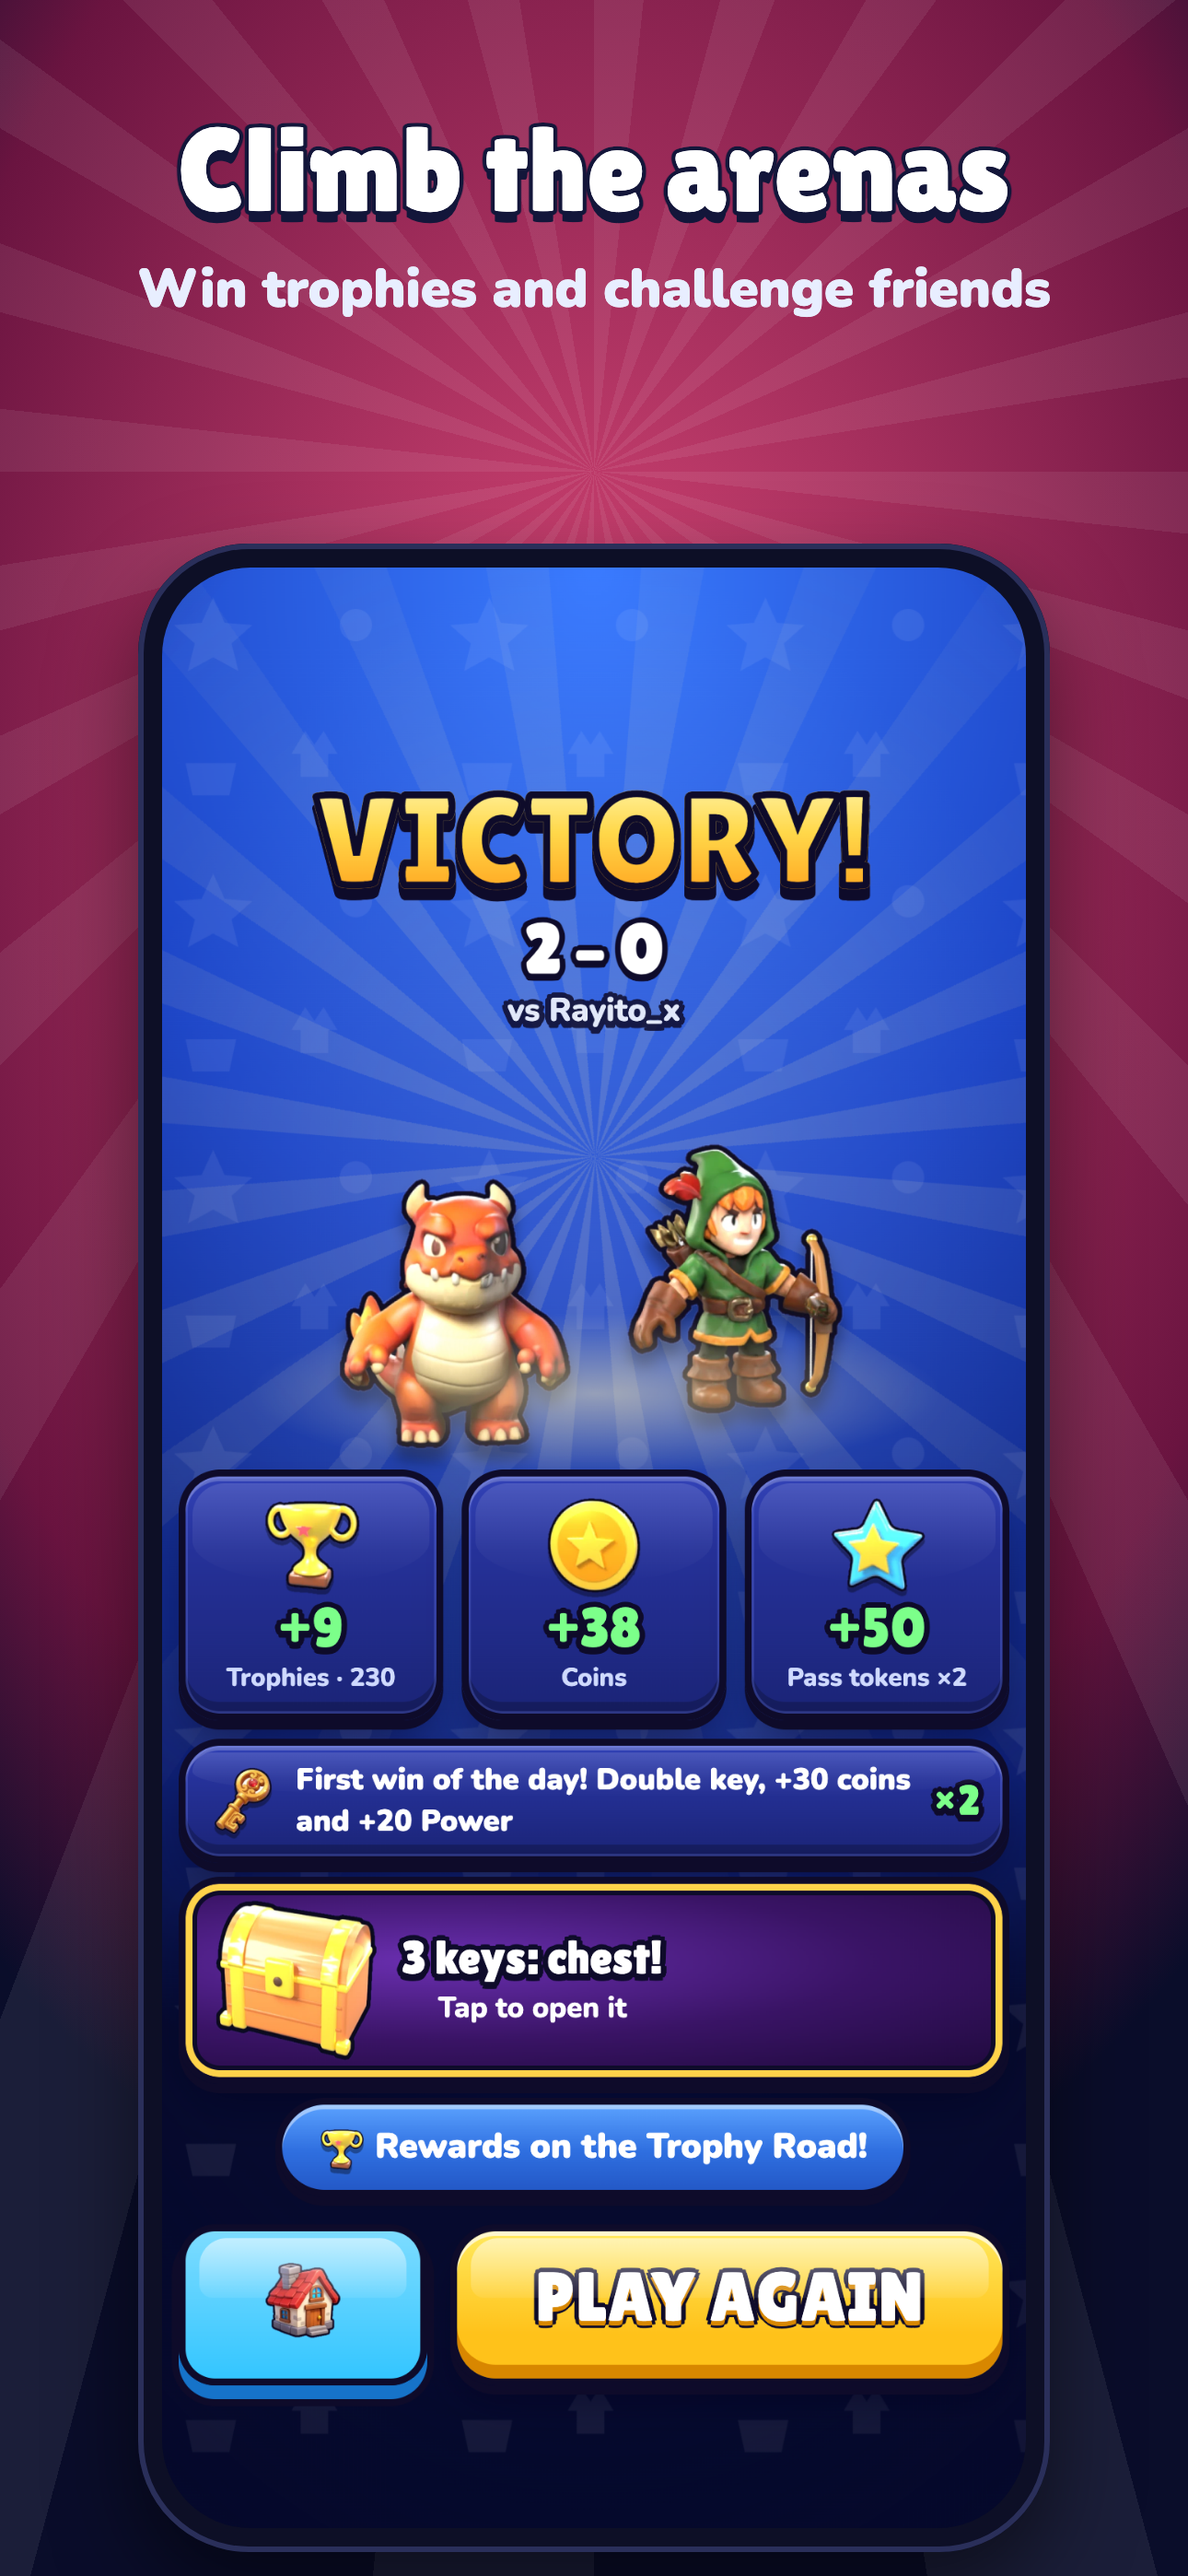
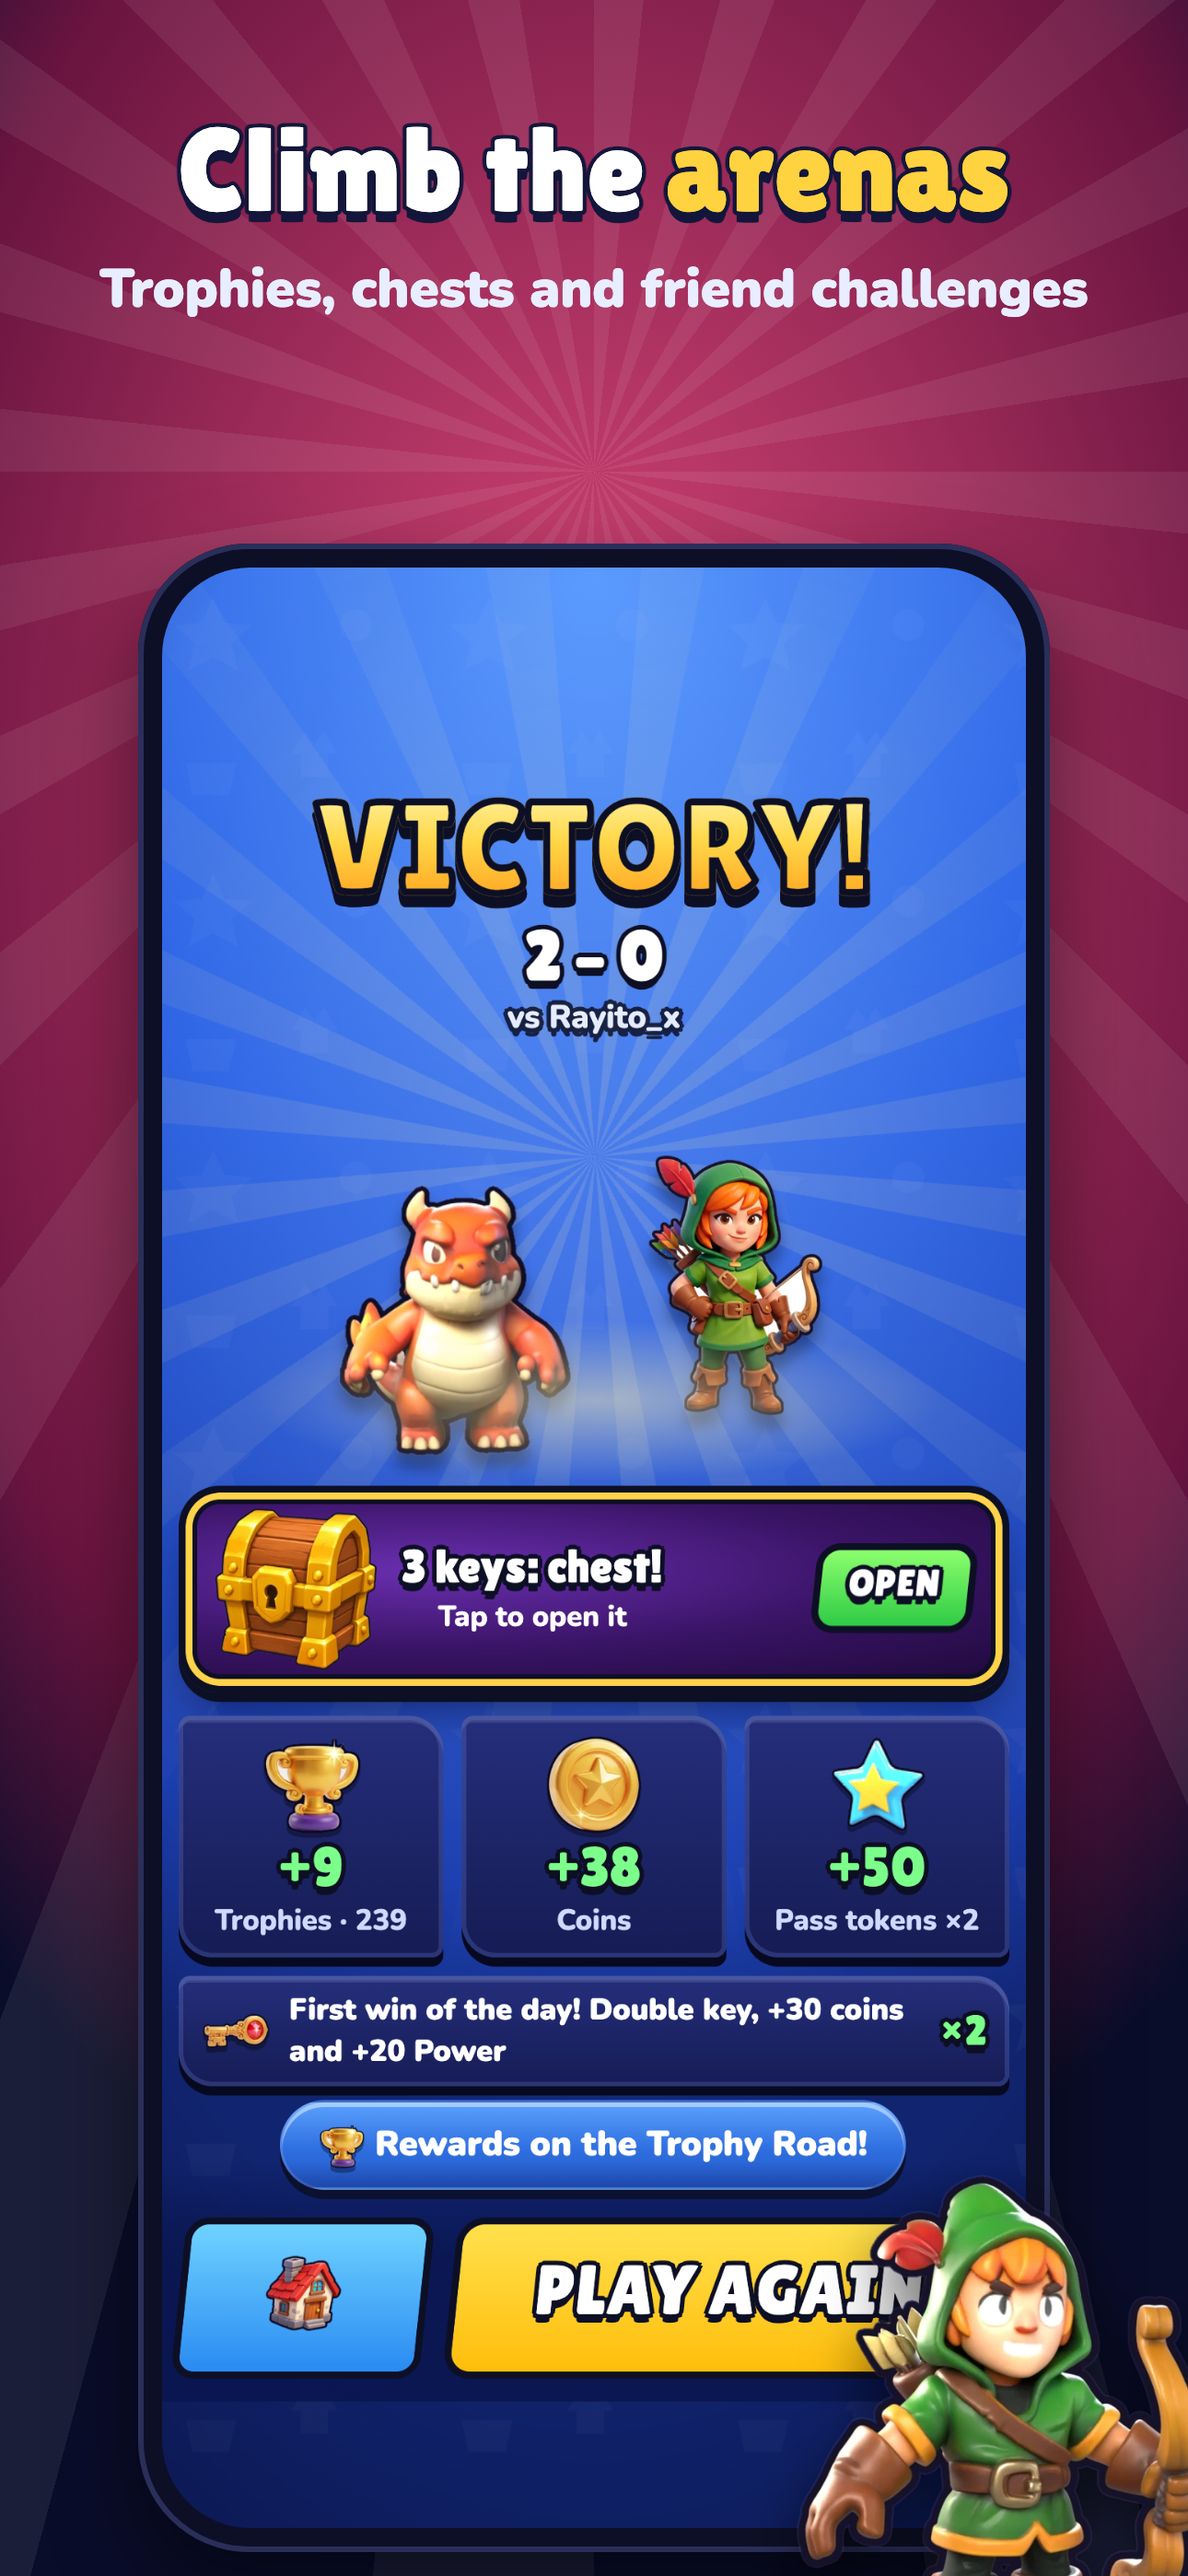
AMAGO: animación 3D sin estirones (colas, capas y alas detrás del cuerpo se mueven con el tronco, no con los brazos), al atacar el héroe se gira en tres cuartos en vez de dar la espalda; recompensas a prueba de NaN; capturas de la App Store nuevas (ES/EN) con modelos 3D, K.O., Mi isla, jefes y héroe

diff --git a/amago/index.html b/amago/index.html
@@ -3378,7 +3378,7 @@ function spriteHero(id,skin){
   return root;
 }
 /* huesos y pesos: cada vértice de la malla sigue a los huesos cercanos (mezcla suave en las articulaciones) */
-function skin2D(geo,R,w,h){
+function skin2D(geo,R,w,h,h3d){
   const P=q=>[(q[0]-.5)*w,(1-q[1])*h];
   const hp=P(R.h),nk=P(R.n),hc=P(R.c),top=[hc[0]*2-nk[0],hc[1]*2-nk[1]];
   const bones=[
@@ -3386,13 +3386,22 @@ function skin2D(geo,R,w,h){
     {n:"spine",par:0,a:hp,b:nk},{n:"head",par:1,a:nk,b:top},
     {n:"armL",par:1,a:P(R.sL),b:P(R.hL)},{n:"armR",par:1,a:P(R.sR),b:P(R.hR)},
     {n:"legL",par:0,a:P(R.pL),b:P(R.fL)},{n:"legR",par:0,a:P(R.pR),b:P(R.fR)}];
-  for(const [n,par,f,t] of R.x||[])bones.push({n,par:bones.findIndex(b=>b.n===par),a:P(f),b:P(t),extra:1});
+  /* en los modelos 3D, colas, capas y alas de la ilustración quedan DETRÁS del cuerpo: su hueso 2D caería encima de un brazo y lo estiraría */
+  const BACK=["cola","capa","alaL","abdomen"];
+  for(const [n,par,f,t] of R.x||[]){if(h3d&&BACK.includes(n))continue;bones.push({n,par:bones.findIndex(b=>b.n===par),a:P(f),b:P(t),extra:1});}
   const pos=geo.attributes.position,N=pos.count,rest=new Float32Array(pos.array),nb=bones.length,W=new Float32Array(N*nb),e2=(h*.035)**2;
+  /* profundidad: lo que está muy por detrás de la cara visible en ese punto (cola, espalda) va con el cuerpo (raíz y tronco), no con brazos ni piernas */
+  let back=null;
+  if(h3d){const cs=h*.045,F=new Map(),key=(x,y)=>Math.floor(x/cs)+","+Math.floor(y/cs);
+    for(let i=0;i<N;i++){const k=key(rest[i*3],rest[i*3+1]),z=rest[i*3+2];if(!(F.get(k)>=z))F.set(k,z);}
+    back=new Float32Array(N);const d0=h*.16,d1=h*.32;
+    for(let i=0;i<N;i++){const d=F.get(key(rest[i*3],rest[i*3+1]))-rest[i*3+2];back[i]=Math.max(0,Math.min(1,(d-d0)/(d1-d0)));}}
   for(let i=0;i<N;i++){
-    const x=rest[i*3],y=rest[i*3+1];let sum=0;
+    const x=rest[i*3],y=rest[i*3+1];let sum=0;const bk=back?back[i]:0;
     for(let j=0;j<nb;j++){const {a,b}=bones[j],dx=b[0]-a[0],dy=b[1]-a[1],L=dx*dx+dy*dy||1e-6;
       const t=Math.max(0,Math.min(1,((x-a[0])*dx+(y-a[1])*dy)/L)),px=a[0]+dx*t-x,py=a[1]+dy*t-y;
-      const v=1/((px*px+py*py+e2)**2)*(j===0?.6:1);W[i*nb+j]=v;sum+=v;}
+      let v=1/((px*px+py*py+e2)**2)*(j===0?.6:1);if(bk&&j>1)v*=1-bk;W[i*nb+j]=v;sum+=v;}
+    if(!(sum>0)){W[i*nb]=1;sum=1;}
     for(let j=0;j<nb;j++)W[i*nb+j]/=sum;
   }
   const idx={};bones.forEach((b,j)=>idx[b.n]=j);
@@ -3710,7 +3719,7 @@ function h3dHero(id){
   const root=new T.Group(),body=new T.Group(),pivot=new T.Group();body.name="body";root.add(body);body.add(pivot);pivot.add(card);
   const u={body,head:new T.Object3D(),arms:[new T.Object3D(),new T.Object3D()],legs:[new T.Object3D(),new T.Object3D()],eyes:null,t0:Math.random()*10,sprite:true,h3d:true,card,mat,pivot,flip:1,h,id,rig:RIG2D[id],lt:null};
   u.arms.forEach(a=>a.userData.base=0);root.userData=u;
-  if(u.rig)u.sk=skin2D(geo,u.rig,w,h);
+  if(u.rig)u.sk=skin2D(geo,u.rig,w,h,true);
   root.traverse(o=>o.layers.enable(KKLAYER));KKSET.add(root);
   return root;
 }
@@ -3718,7 +3727,8 @@ function h3dHero(id){
 function faceH3D(u,t,st,act){
   const dt=u.lt==null?0:Math.max(0,Math.min(.1,t-u.lt));u.lt=t;
   const ry=u.body.parent?u.body.parent.rotation.y:0,face=st.walk||act==="attack",y0=H3DYAW[u.id]||0;
-  const want=act==="attack"?ry+y0:st.walk?Math.sin(ry)*.75+y0:(u.flat?0:.3),dy=Math.atan2(Math.sin(want-(u.yaw??want)),Math.cos(want-(u.yaw??want)));u.yaw=(u.yaw??want)+dy*Math.min(1,dt*10);
+  /* al atacar se gira hacia el rival pero en tres cuartos: de espaldas a la cámara la textura generada pierde color */
+  const want=act==="attack"?Math.sin(ry)*.95+(Math.cos(ry)<0?.55*Math.sign(Math.sin(ry)||1):0)+y0:st.walk?Math.sin(ry)*.75+y0:(u.flat?0:.3),dy=Math.atan2(Math.sin(want-(u.yaw??want)),Math.cos(want-(u.yaw??want)));u.yaw=(u.yaw??want)+dy*Math.min(1,dt*10);
   _kq1.setFromAxisAngle(_kY,-ry);_kq2.setFromAxisAngle(_kX,u.flat?0:-.5);_kq3.setFromAxisAngle(_kY,u.yaw);u.pivot.quaternion.copy(_kq1).multiply(_kq2).multiply(_kq3);
 }
 function makeHero(id,skin){if(!skin&&H3D[id]&&SPRITES[id]){const g=h3dHero(id);g.userData.id=id;return g;}if(!skin&&KKM[id]&&KKCLIPS){const g=kkHero(id);g.userData.id=id;return g;}if(skin&&SPRITES[skin]){const g=spriteHero(id,skin);g.userData.id=id;return g;}const g=A3[id]&&A3[id].f&&A3[id].f.idle&&A3[id].b&&Object.keys(A3[id].f).length+Object.keys(A3[id].b).length>=2*Object.keys(ANIM3D[id].n).length?anim3dHero(id):SPRITES[id]?spriteHero(id):MODELS[id]?glbHero(id):(BUILD[id]||BUILD.flecha)(HEROES[id]);g.userData.id=id;return g;}
@@ -6161,7 +6171,7 @@ async function endRound(w){
 }
 async function endMatch(){
   R=null;ensureDay();EV.add("match_end",{win:G.score.p>G.score.b,draw:G.score.p===G.score.b,score:G.score.p+"-"+G.score.b,mode:G.online?(G.ranked?"online":"amigos"):"bot",bd:G.botD||null,sk:S.sk,diff:G.online?null:S.diff,n:S.games+1,left:!!G.left});
-  const win=G.score.p>G.score.b,draw=G.score.p===G.score.b,d=today(),diff=G.diff||S.diff||"facil";
+  const win=G.score.p>G.score.b,draw=G.score.p===G.score.b,d=today(),diff=(d0=>TRO_MULT[d0]!=null?d0:"normal")(G.diff||S.diff||"facil");/* "auto" (Batalla) cobra como Normal */
   if(!G.online&&!G.tutorial&&!G.camp&&(S.diff==="auto"||!S.diff)&&!draw)skillUpdate(win);
   const before=S.tro,lvlBefore=level(),arenaBefore=arenaOf(S.troMax).a.k;
   /* trofeos: según la dificultad, con racha; derrotas suaves y escudos */
@@ -6231,7 +6241,7 @@ async function endMatch(){
   endScreen(win,draw,`
     ${gotChest?`<button class="endchest feat gold shine top" data-a="openbox"><img src="${UIA}chest1.webp" alt=""><span><b class="out">¡3 llaves: cofre!</b><small>Toca para abrirlo</small></span><span class="gbtn green sm">ABRIR</span></button>`:""}
     <div class="chips">
-      <div class="chip pnl" data-d="0">${ico("trophy")}<b class="out ${delta>0?"up":delta<0?"dn":""}" id="tro" ${delta>0?`data-cu="${delta}"`:""}>${delta>0?"+":""}${delta}</b><small>Trofeos · <span data-tot="${before}" data-to="${S.tro}">${before}</span></small></div>
+      <div class="chip pnl" data-d="0">${ico("trophy")}<b class="out ${delta>0?"up":delta<0?"dn":""}" id="tro" ${delta>0?`data-cu="${delta}"`:""}>${delta>0?"+":""}${delta}</b><small>${TT("Trofeos")} · <span data-tot="${before}" data-to="${S.tro}">${before}</span></small></div>
       <div class="chip pnl" data-d="1">${ico("coin")}<b class="out up" data-cu="${coins}">+0</b><small>Monedas${S.wc.n>=WIN_COINS_CAP&&win?" · tope de hoy":""}</small></div>
       ${S.games>2?`<div class="chip pnl" data-d="2">${ico("star")}<b class="out up" data-cu="${tk}">+0</b><small>Fichas del pase${tkMult>=2?" ×2":""}</small></div>`:""}
     </div>
